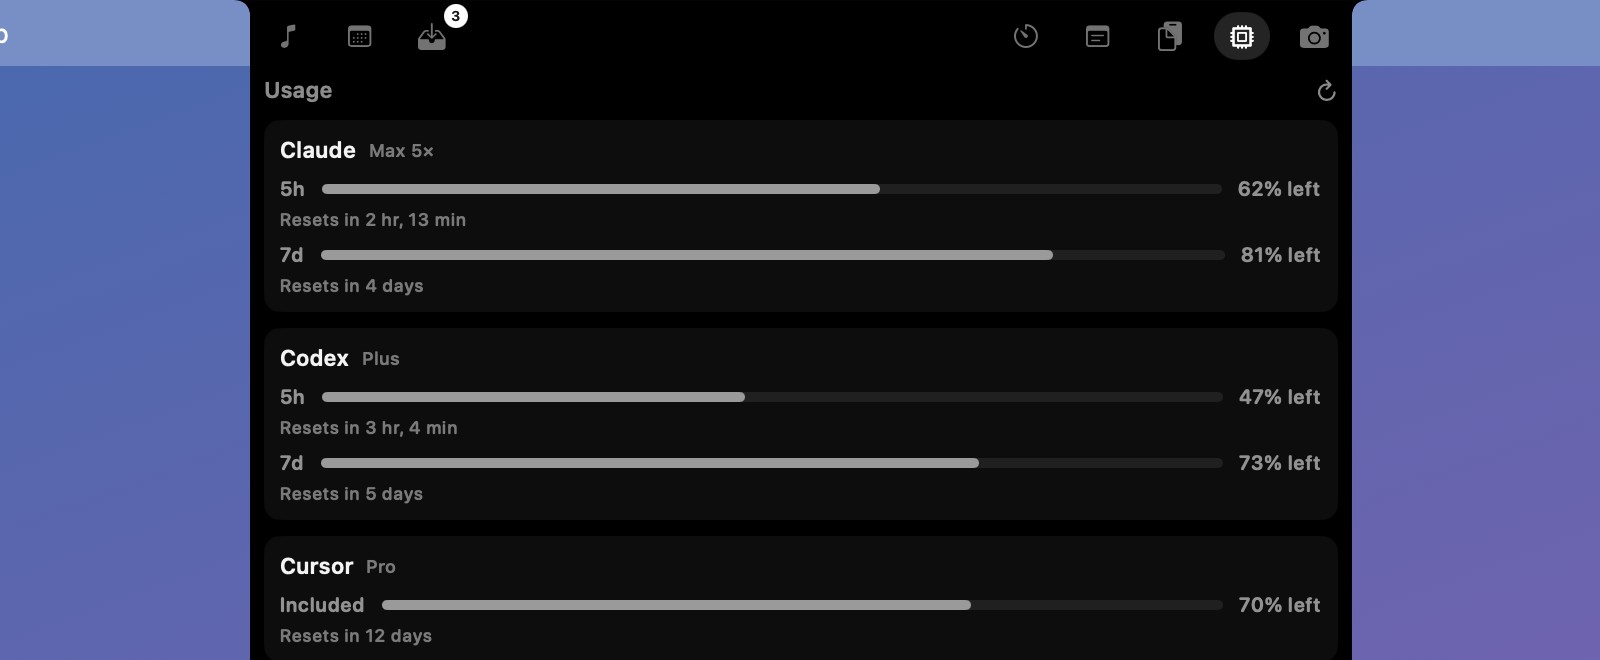
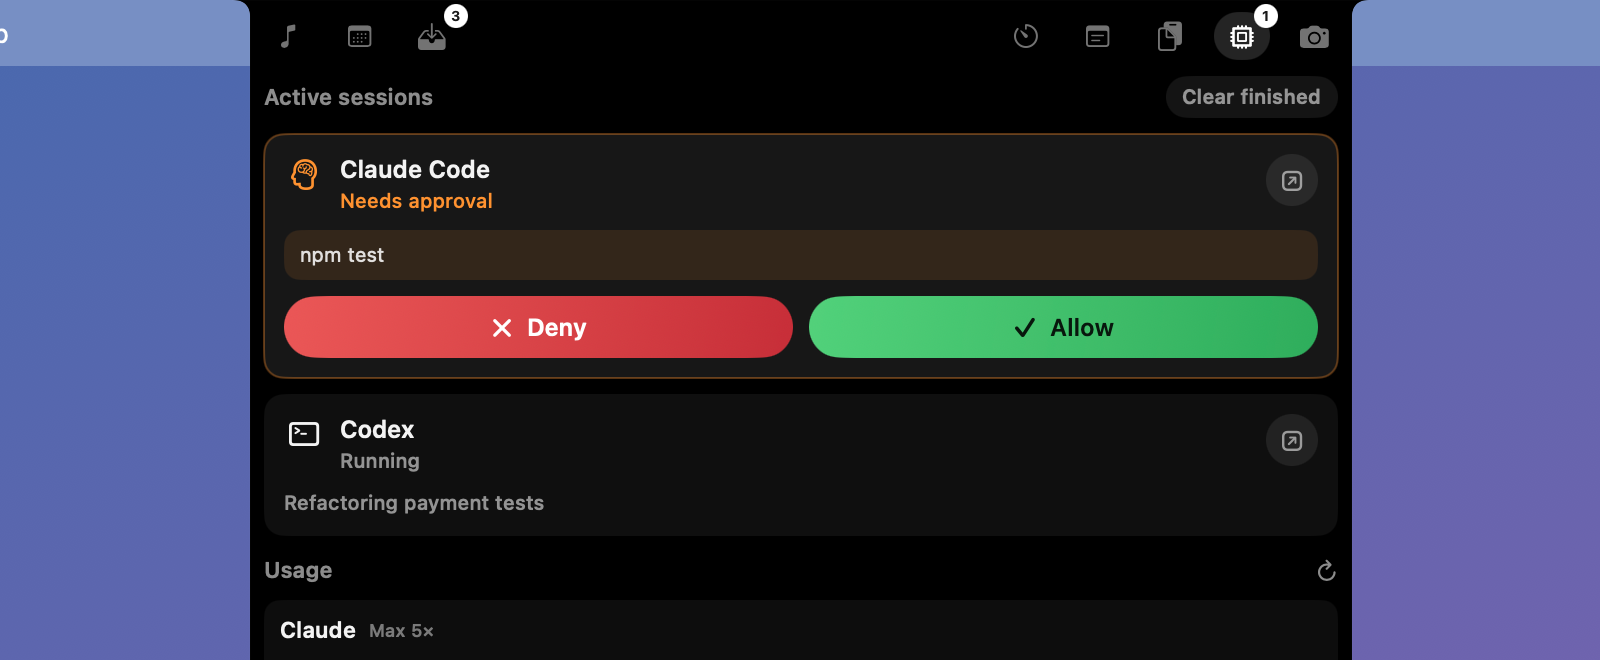
List every supported agent on the site and show a waiting prompt in the Agents shot.

diff --git a/website/pl/index.html b/website/pl/index.html
@@ -258,13 +258,13 @@
             <h3>Agenci, bez szukania karty.</h3>
             <p>Długie zadanie Claude Code staje na prośbie o zgodę, a Ty jesteś w innym oknie. Notch pulsuje, czytasz polecenie i zatwierdzasz albo odrzucasz je bez szukania terminala.</p>
             <div class="agent-names">
-              <span>Claude Code</span><span>Codex</span><span>Cursor</span><span>Grok</span><span>OpenCode</span><span>Gemini CLI</span>
+              <span>Claude Code</span><span>Codex</span><span>Copilot CLI</span><span>Cursor</span><span>Gemini CLI</span><span>OpenCode</span><span>Qwen Code</span><span>Kilo Code</span><span>Crush</span><span>Droid</span><span>Grok</span>
             </div>
           </div>
           <div class="media-frame agent-story">
             <p>Co pokazuje dodatek Agents.</p>
             <ul>
-              <li>Zatwierdzanie i odrzucanie próśb Claude Code z wyspy</li>
+              <li>Zatwierdzanie i odrzucanie próśb Claude Code, Codexa, Copilot CLI i Qwen Code z wyspy</li>
               <li>Które sesje pracują, czekają albo skończyły</li>
               <li>Pozostałe limity 5-godzinne i tygodniowe Claude i Codexa oraz wykorzystanie w Cursorze</li>
               <li>Jedno kliknięcie do właściwego terminala albo edytora</li>

diff --git a/website/index.html b/website/index.html
@@ -258,13 +258,13 @@
             <h3>Agents, without the tab hunt.</h3>
             <p>A long Claude Code run stops on a permission prompt while you are in another window. The notch pulses, you read the command, and you allow or deny it without finding the terminal.</p>
             <div class="agent-names">
-              <span>Claude Code</span><span>Codex</span><span>Cursor</span><span>Grok</span><span>OpenCode</span><span>Gemini CLI</span>
+              <span>Claude Code</span><span>Codex</span><span>Copilot CLI</span><span>Cursor</span><span>Gemini CLI</span><span>OpenCode</span><span>Qwen Code</span><span>Kilo Code</span><span>Crush</span><span>Droid</span><span>Grok</span>
             </div>
           </div>
           <div class="media-frame agent-story">
             <p>What the Agents add-on shows.</p>
             <ul>
-              <li>Allow or deny Claude Code prompts from the island</li>
+              <li>Allow or deny Claude Code, Codex, Copilot CLI and Qwen Code prompts from the island</li>
               <li>Which session is running, waiting, or done</li>
               <li>Remaining 5-hour and weekly limits for Claude and Codex, and Cursor’s included usage</li>
               <li>One click back to the right terminal or editor</li>

diff --git a/website/compare/index.html b/website/compare/index.html
@@ -73,7 +73,7 @@
           </tr>
         </thead>
         <tbody>
-          <tr><td><strong>NotchFlow</strong></td><td>Free core, one-time Pro</td><td>Yes (GPL-3.0)</td><td>Claude Code</td><td>Claude, Codex, Cursor, Grok</td><td>Yes</td></tr>
+          <tr><td><strong>NotchFlow</strong></td><td>Free core, one-time Pro</td><td>Yes (GPL-3.0)</td><td>Claude Code, Codex, Copilot CLI, Qwen Code</td><td>Claude, Codex, Cursor, Grok</td><td>Yes</td></tr>
           <tr><td>NotchNook Pro</td><td>$19 one-time or $3/month</td><td>No</td><td>Claude Code, Codex</td><td>Not listed</td><td>Yes</td></tr>
           <tr><td>Vibe Island</td><td>$19.99 one-time</td><td>No</td><td>Many agents, incl. Cursor</td><td>Yes</td><td>No</td></tr>
           <tr><td>Boring Notch</td><td>Free</td><td>Yes (GPL-3.0)</td><td>No</td><td>No</td><td>Yes</td></tr>
